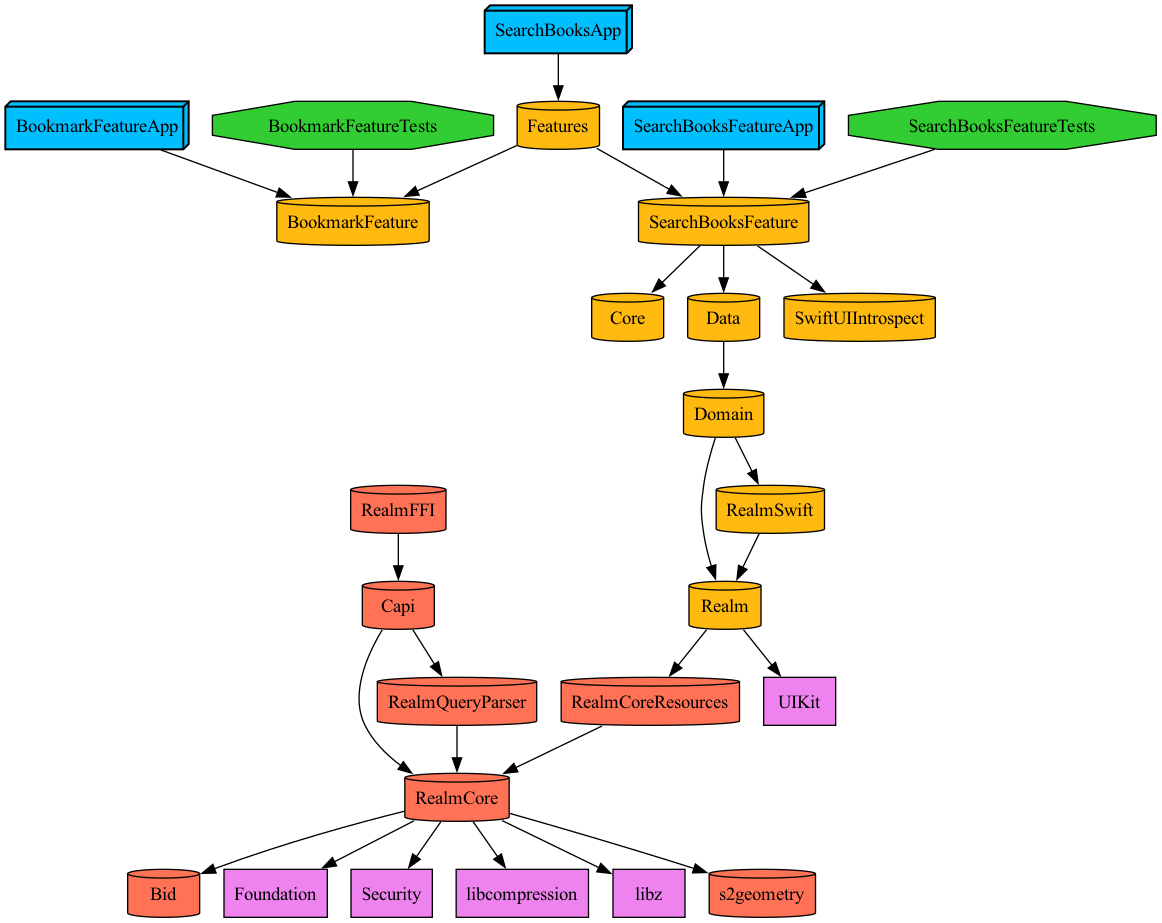
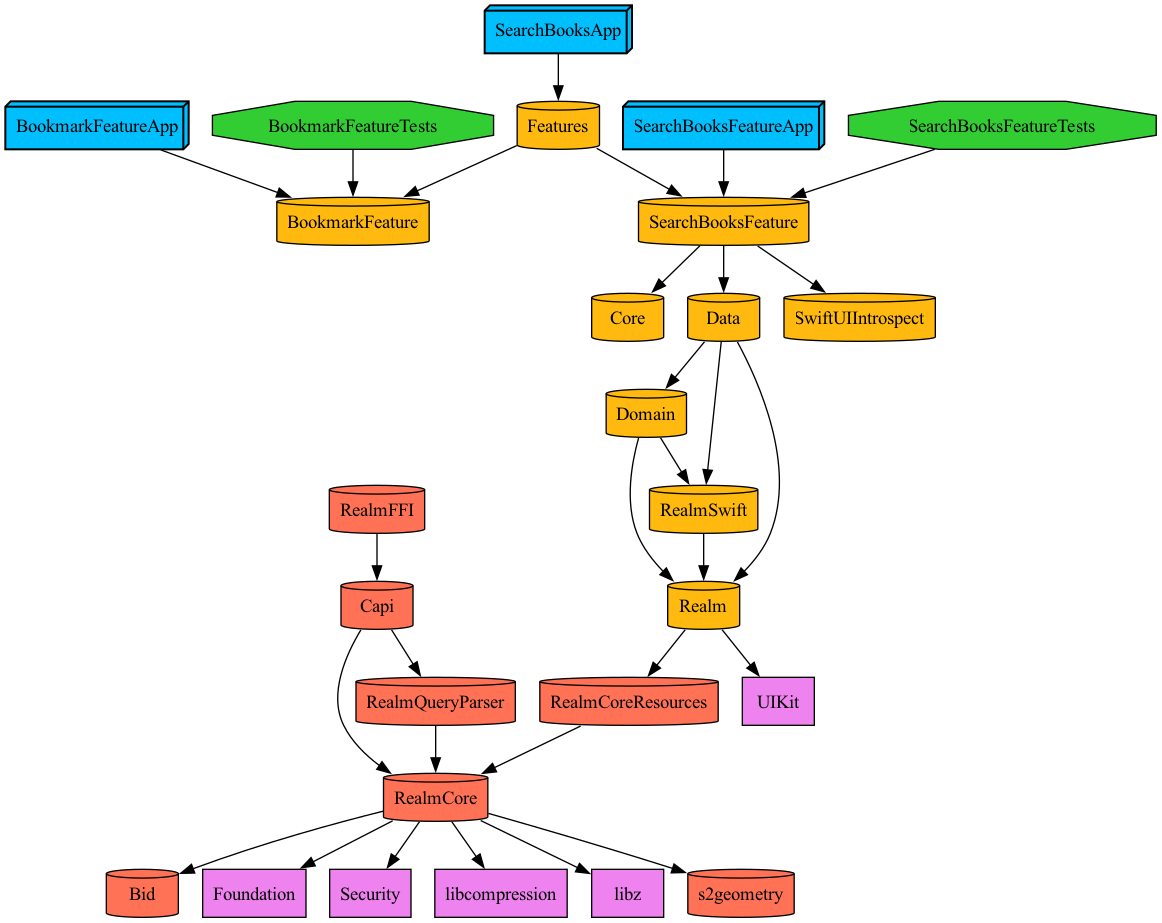
refactor: SavedBookRepository Data 모듈로 이동
- Domain을 의존하는 Data는 Domain이 Realm을 의존하고 있어서 추가로 의존성 추가를 하지 않아도 되는 줄 알았는데 해주지 않으면 Realm을 찾지 못한다.

Changed region(s): [[0.0929, 0.364, 0.7435, 1.0]]

diff --git a/Projects/Domain/Sources/Entities/SavedBook.swift b/Projects/Domain/Sources/Entities/SavedBook.swift
@@ -9,10 +9,10 @@ import Foundation
 import RealmSwift
 
 public class SavedBook: Object {
-  @Persisted(primaryKey: true) var isbn13: String
-  @Persisted var title: String
-  @Persisted var subtitle: String
-  @Persisted var price: String
-  @Persisted var image: String
-  @Persisted var savedAt: Date
+  @Persisted(primaryKey: true) public var isbn13: String
+  @Persisted public var title: String
+  @Persisted public var subtitle: String
+  @Persisted public var price: String
+  @Persisted public var image: String
+  @Persisted public var savedAt: Date
 }

diff --git a/Projects/Data/Project.swift b/Projects/Data/Project.swift
@@ -12,7 +12,9 @@ let project = Project(
       sources: ["Sources/**"],
       resources: [],
       dependencies: [
-        .project(target: "Domain", path: "../Domain")
+        .project(target: "Domain", path: "../Domain"),
+        .external(name: "Realm"),
+        .external(name: "RealmSwift")
       ]
     ),
   ]

diff --git a/Projects/Data/Sources/Repositories/SavedBookRepository.swift b/Projects/Data/Sources/Repositories/SavedBookRepository.swift
@@ -1,12 +1,13 @@
 //
 //  SavedBookRepository.swift
-//  Domain
+//  Data
 //
-//  Created by Cory Kim on 7/3/24.
+//  Created by Cory Kim on 7/4/24.
 //
 
 import Foundation
 import RealmSwift
+import Domain
 
 public protocol SavedBookRepository {
   func fetchAllSavedBooks() -> Results<SavedBook>

diff --git a/Projects/Features/SearchBooksFeature/Sources/ViewModels/SearchBooksViewModel.swift b/Projects/Features/SearchBooksFeature/Sources/ViewModels/SearchBooksViewModel.swift
@@ -7,6 +7,7 @@
 
 import UIKit
 import Combine
+import Data
 import Domain
 
 @MainActor
